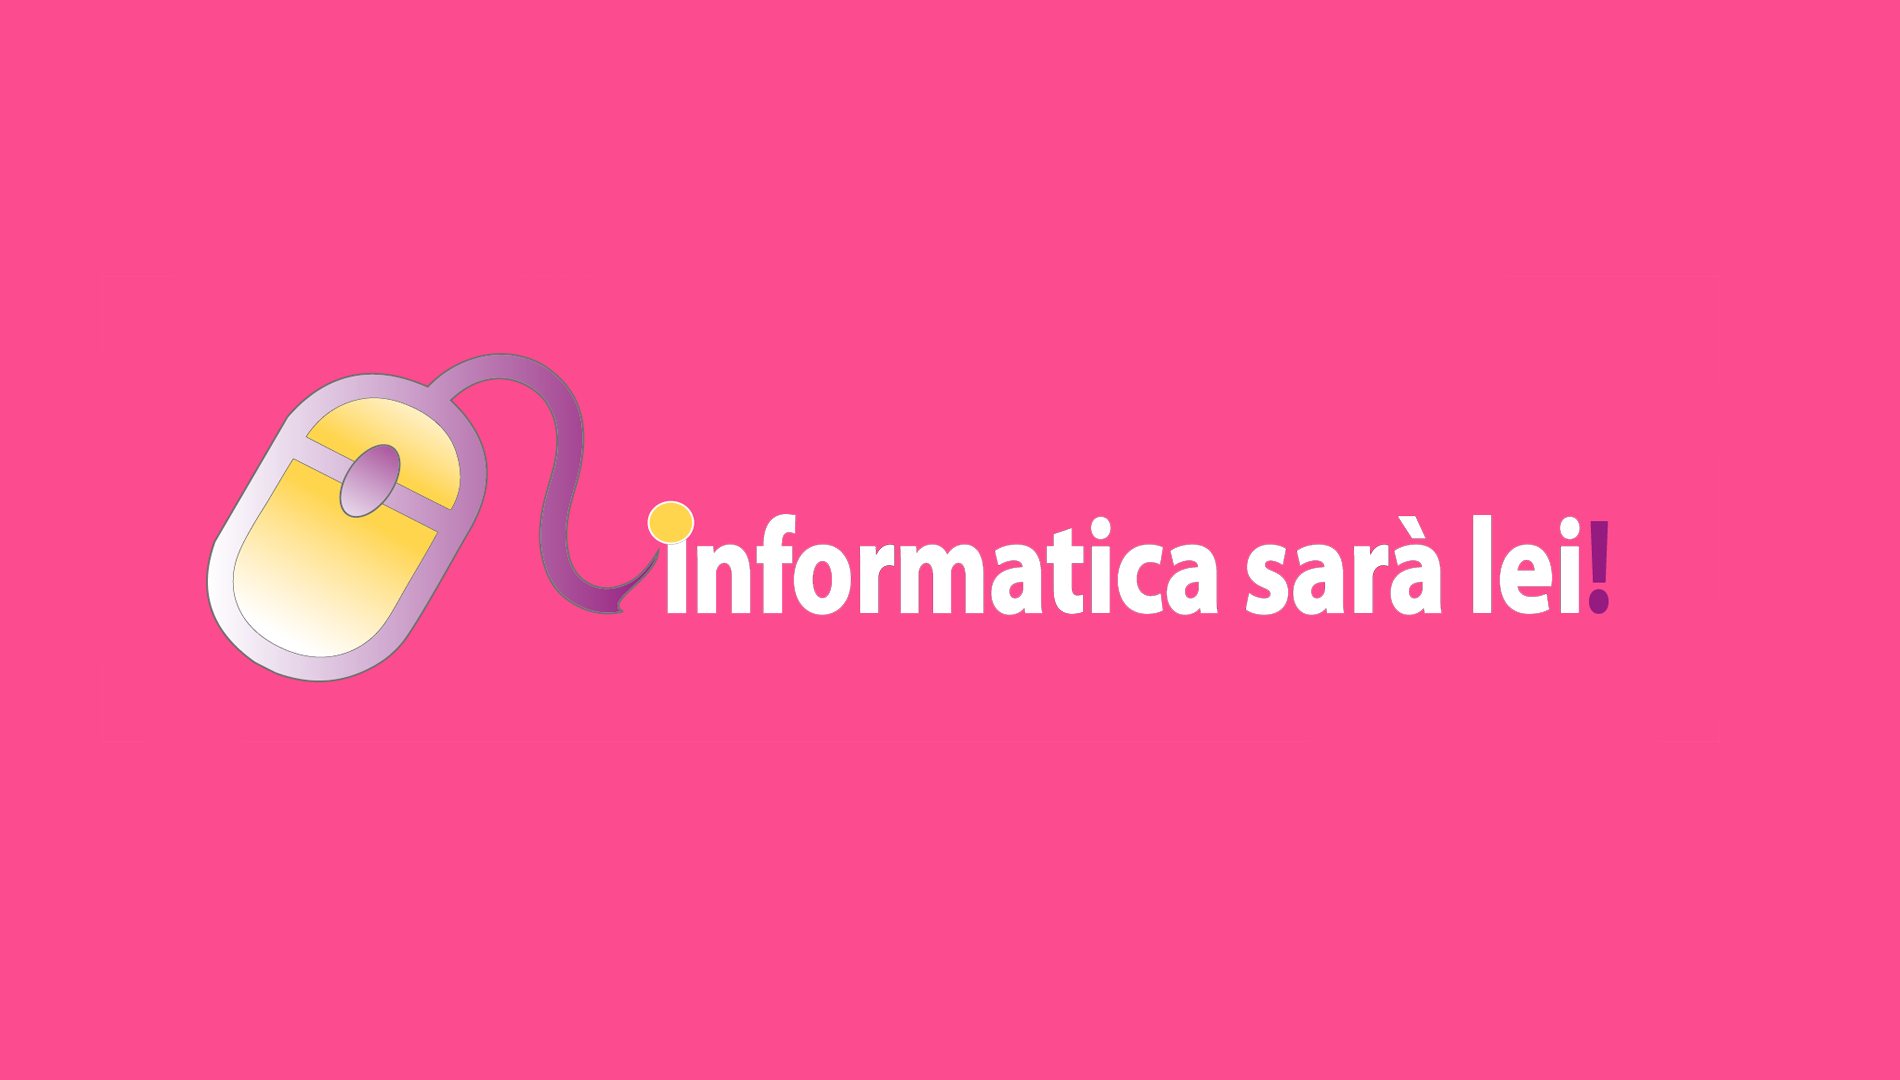
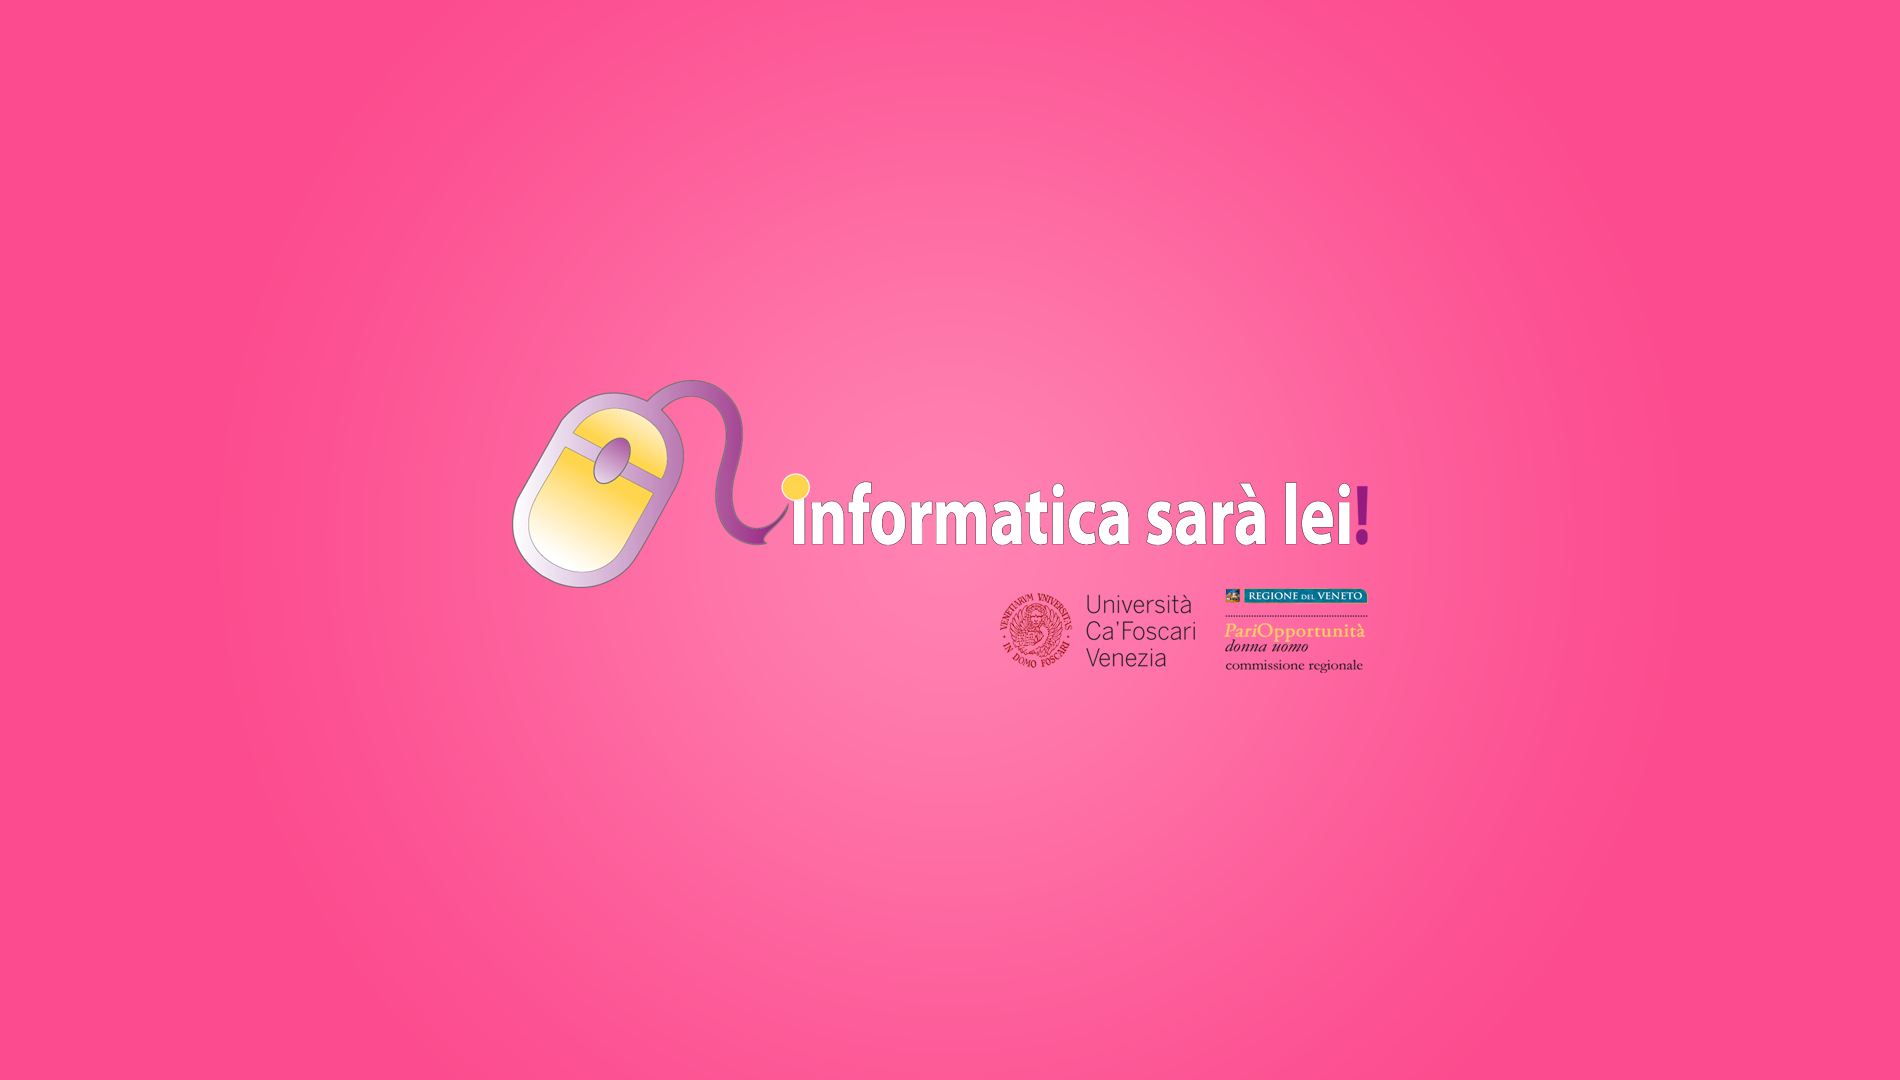
aggiornamento prima slide - temp
aggiornamento temporaneo prima slide (atteso logo regione vettoriale)

diff --git a/www_src/index.html b/www_src/index.html
@@ -56,7 +56,7 @@
         <!-- Wrapper for slides -->
         <div class="carousel-inner">
             <div class="item active">
-                <div class="fill" style="background-image:url('img/Slide1.png');"></div>
+                <div class="fill" style="background-image:url('img/Slide1v.png');"></div>
                 <div class="carousel-caption">
                     <h2></h2>
                 </div>
